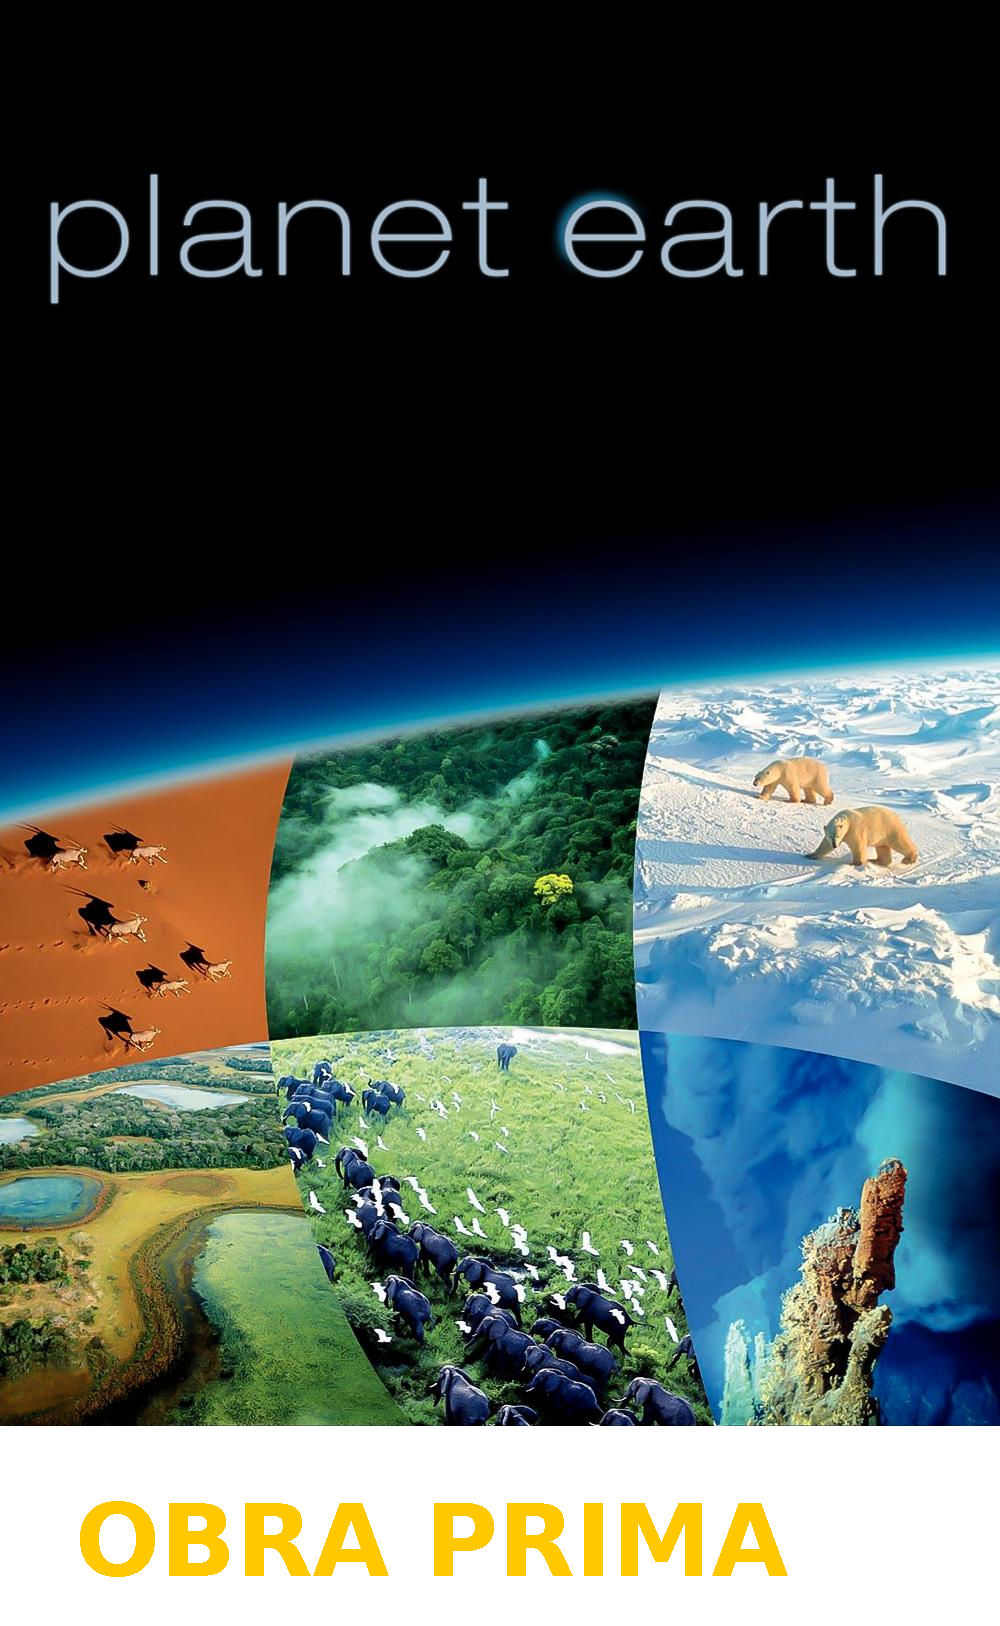
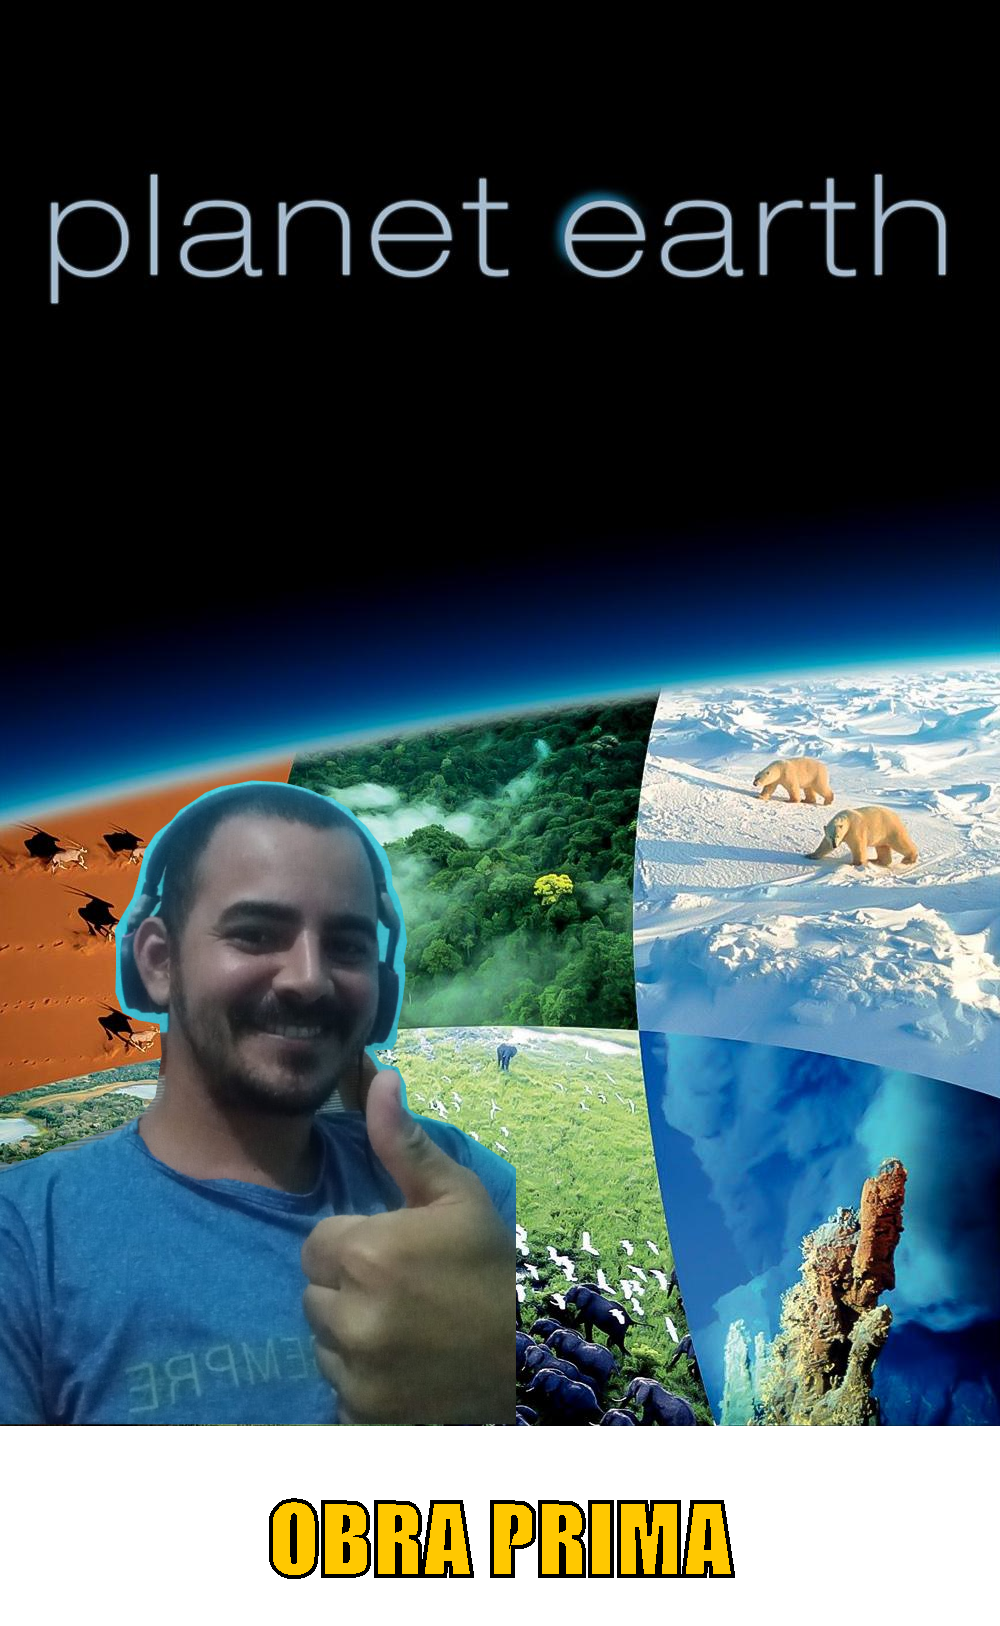
desafios aula 02 finalizados

Changed region(s): [[0.0, 0.4613, 0.527, 0.8918], [0.062, 0.9225, 0.806, 0.984]]

diff --git a/src/GeradoraDeFigurinhas.java b/src/GeradoraDeFigurinhas.java
@@ -1,6 +1,13 @@
+import java.awt.BasicStroke;
 import java.awt.Color;
 import java.awt.Font;
+import java.awt.FontMetrics;
 import java.awt.Graphics2D;
+import java.awt.Shape;
+import java.awt.font.FontRenderContext;
+import java.awt.font.TextLayout;
+import java.awt.geom.AffineTransform;
+import java.awt.geom.Rectangle2D;
 import java.awt.image.BufferedImage;
 import java.io.File;
 import java.io.InputStream;
@@ -9,37 +16,57 @@ import javax.imageio.ImageIO;
 
 public class GeradoraDeFigurinhas {
     
-    public void cria( InputStream inputStream, String nomeArquivo, String rotulo ) throws Exception{
+    public void cria( InputStream inputStream, InputStream joinha, String nomeArquivo, String rotulo ) throws Exception{
 
         // leitura da imagem
-        // InputStream inputStream = new FileInputStream(new File("entrada/filme.jpg"));
-        //InputStream inputStream = new URL("https://raw.githubusercontent.com/alura-cursos/imersao-java-2-api/main/MostPopularMovies_1.jpg").openStream();
         BufferedImage imagemOriginal = ImageIO.read(inputStream);
+        BufferedImage joinhaSorrindo = ImageIO.read(joinha);
 
         // criar nova imagem em memoria com transparencia com tamanho novo
         int largura = imagemOriginal.getWidth();
         int altura = imagemOriginal.getHeight();
         int novaAltura = altura + 200;
         BufferedImage novaImagem = new BufferedImage(largura, novaAltura, BufferedImage.TRANSLUCENT);
+
         //copiar a imagem original para nova imagem em memoria
         Graphics2D graphics = (Graphics2D) novaImagem.createGraphics();
         graphics.drawImage(imagemOriginal, 0, 0, null);
+
+        int alturaJoinha = altura - joinhaSorrindo.getHeight();
+        graphics.drawImage(joinhaSorrindo, 0, alturaJoinha, null);
         
         // configurar a fonte
-        var fonte = new Font(Font.SANS_SERIF, Font.BOLD, 100);
+        var fonte = new Font("Impact", Font.BOLD, 90);
         graphics.setColor(Color.ORANGE);
         graphics.setFont(fonte);
         
         //escrever um texto na imagem
-        graphics.drawString(rotulo, 75, novaAltura - 50);
+        FontMetrics fontMetrics = graphics.getFontMetrics();
+        Rectangle2D retangulo = fontMetrics.getStringBounds(rotulo, graphics);
+        int larguraTexto = (int)retangulo.getWidth();       
+        int posicaoTextoX = (largura - larguraTexto)/2;
+        int posicaoTextoY = novaAltura - 50;
+        graphics.drawString(rotulo, posicaoTextoX, posicaoTextoY);
+
+        // fazer contorno na fonte
+        FontRenderContext fontRenderContext = graphics.getFontRenderContext();
+        var textLayout = new TextLayout(rotulo, fonte, fontRenderContext);
+
+        Shape outline = textLayout.getOutline(null);
+        AffineTransform transform = graphics.getTransform();
+        transform.translate(posicaoTextoX, posicaoTextoY);
+        graphics.setTransform(transform);
+
+        var outlineStroke = new BasicStroke(largura * 0.004f);
+        graphics.setStroke(outlineStroke);
+
+        graphics.setColor(Color.black);
+        graphics.draw(outline);
+        graphics.setClip(outline);
 
 
         //escrever a nova imagem em um arquivo
         ImageIO.write(novaImagem, "png", new File(nomeArquivo));
 
     }
-    // public static void main(String[] args) throws Exception {
-    //     var geradora = new GeradoraDeFigurinhas();
-    //     geradora.cria();
-    // }
 }

diff --git a/src/App.java b/src/App.java
@@ -1,4 +1,5 @@
 import java.io.File;
+import java.io.FileInputStream;
 import java.io.InputStream;
 import java.net.URI;
 import java.net.URL;
@@ -30,10 +31,10 @@ public class App {
                 System.out.println("Saindo ..........");
                 break;
             default:
+            System.out.println("Não entendi fechando aplicação");
                 break;
         }
         // fazer um conexão HTTP e buscar os top 250 filmes
-        //String url = "https://raw.githubusercontent.com/alura-cursos/imersao-java-2-api/main/TopMovies.json";
         URI endereco = URI.create(url);
         var client = HttpClient.newHttpClient();
         var request = HttpRequest.newBuilder(endereco).GET().build();
@@ -49,10 +50,10 @@ public class App {
 
         var geradora = new GeradoraDeFigurinhas();
         System.out.println("\n====================================================");
+        
         // exibir e manipular os dados
-         for (Map<String,String> filme : listaDeFilmes) {
+        for (Map<String,String> filme : listaDeFilmes) {
             System.out.println("\u001b[1mTITULO:\u001b[m" + filme.get("title"));
-            // System.out.println("\u001b[1mURL IMAGEM:\u001b[m" + filme.get("image"));
             double estrelas = Double.parseDouble(filme.get("imDbRating"));
             for (int i = 1; i <= estrelas; i++) {
                 System.out.print(" ⭐");
@@ -75,9 +76,10 @@ public class App {
             String titulo = filme.get("title");
 
             InputStream inputStream = new URL(urlImagem).openStream();
+            InputStream joinha = new FileInputStream(new File("figurinhas/joinha.png"));
             String nomeArquivo = "figurinhas/" + titulo + ".png";
             
-            geradora.cria(inputStream, nomeArquivo, rotulo);
+            geradora.cria(inputStream, joinha, nomeArquivo, rotulo);
 
         }
     }
